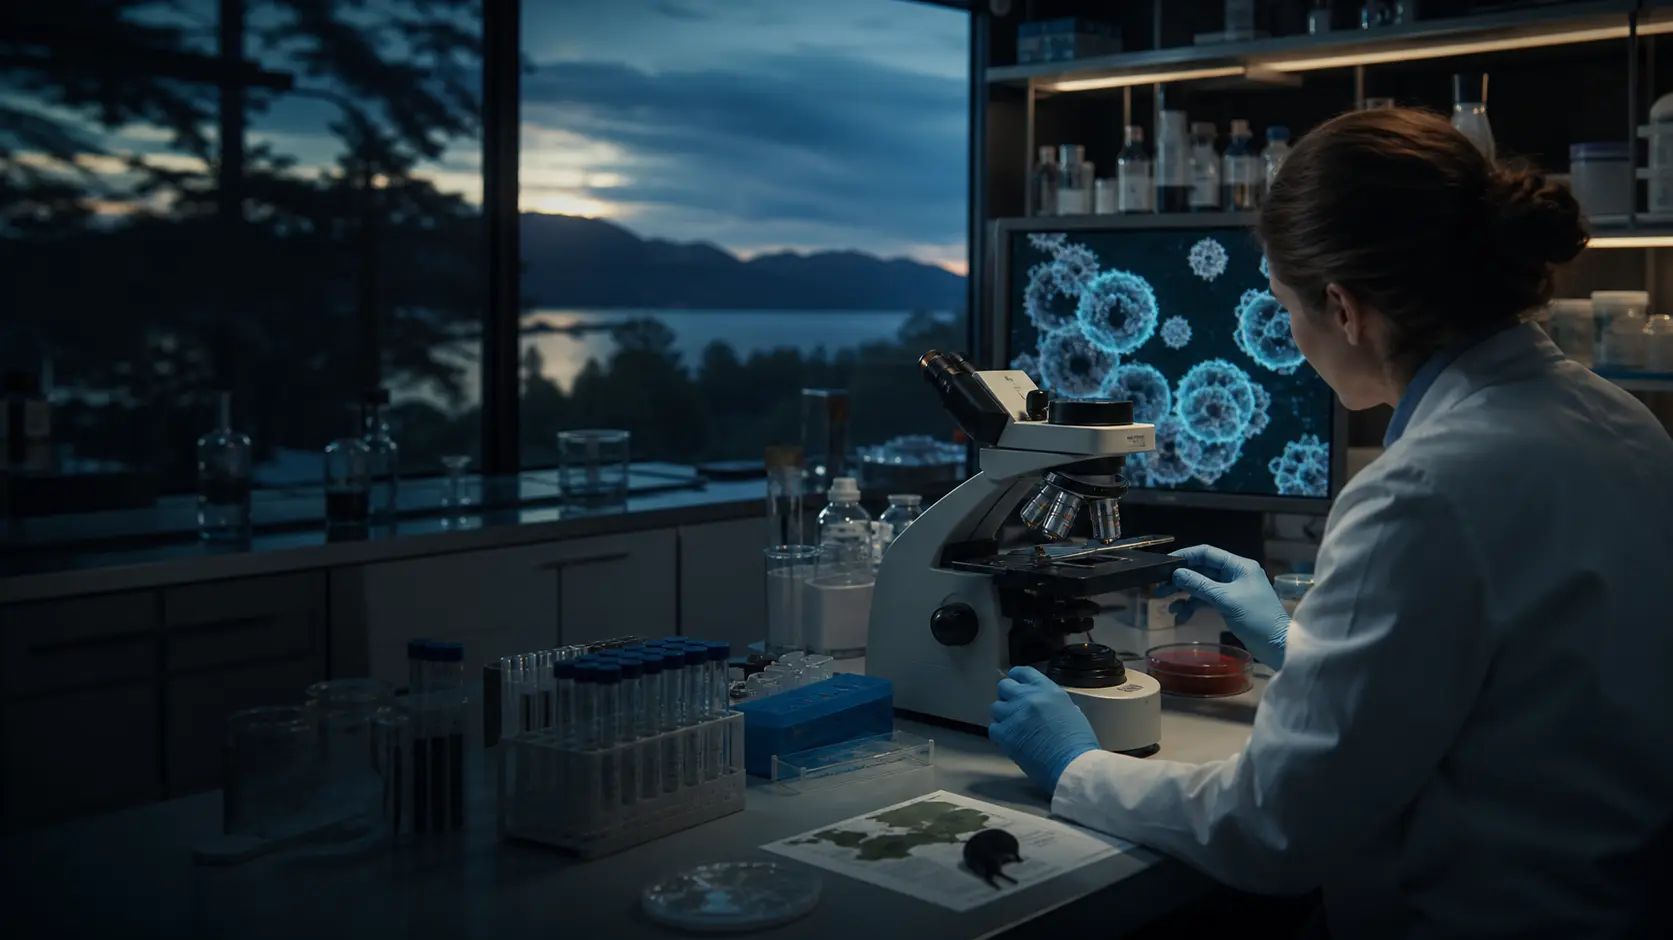
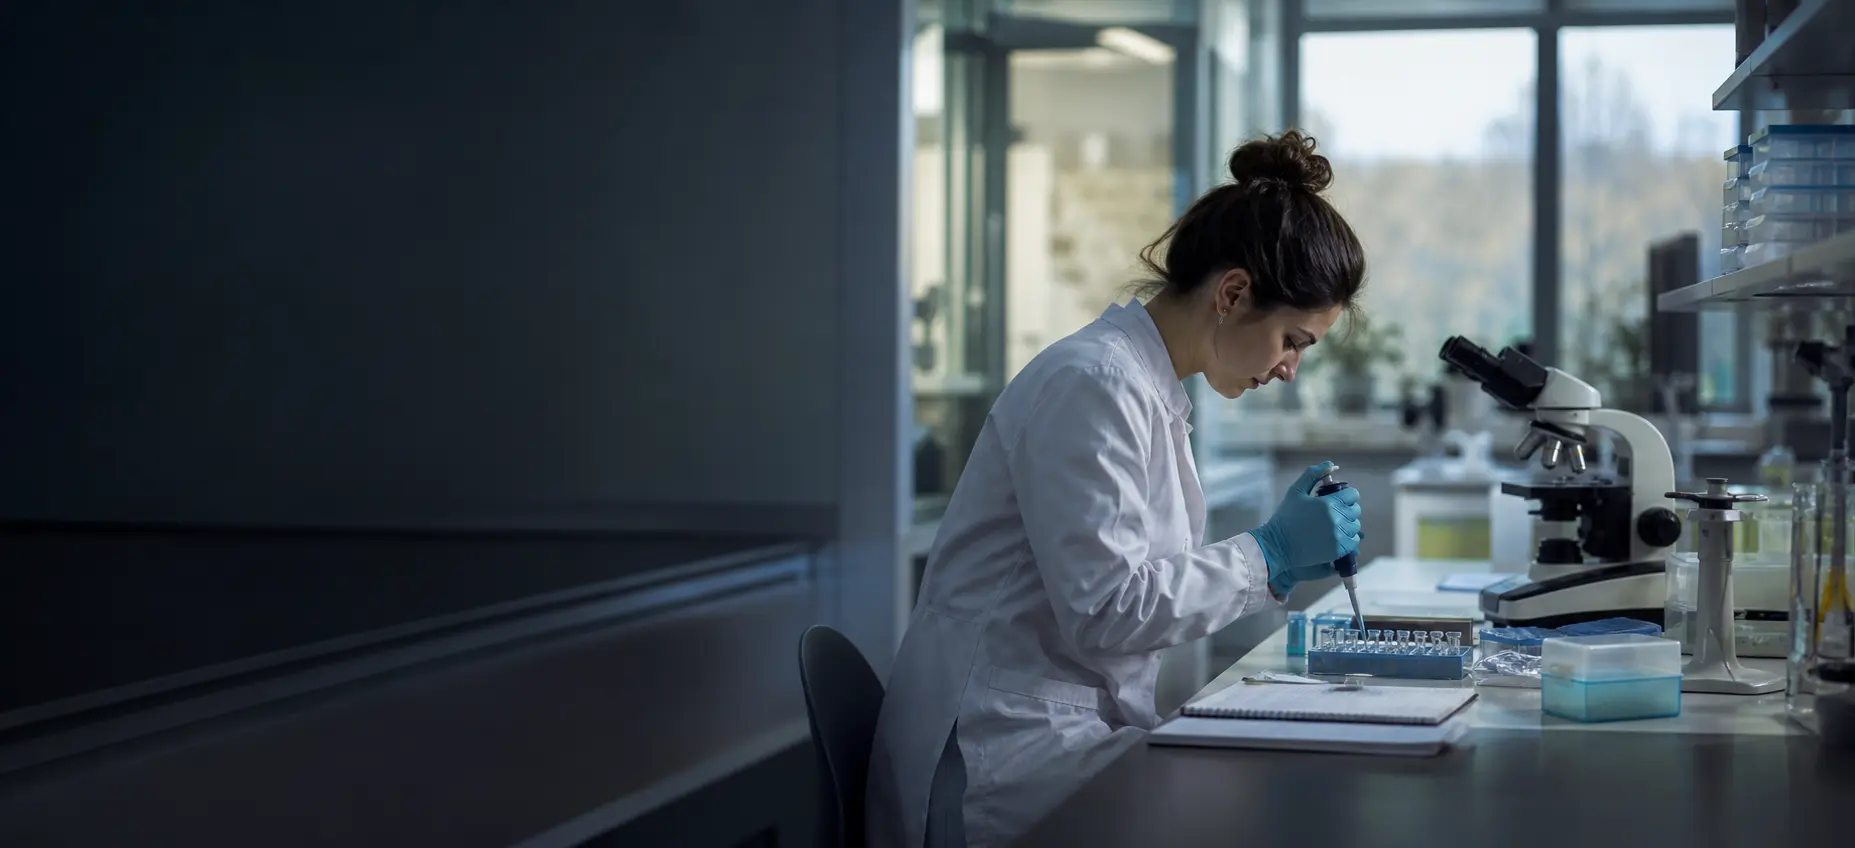
Make homepage hero more sober

diff --git a/index.html b/index.html
@@ -37,7 +37,7 @@
 
       <section class="hero" aria-labelledby="hero-title">
         <picture class="hero-media">
-          <img src="assets/images/ui/home-science-hero.webp" alt="Scientist examining microscopy data in a virology laboratory" fetchpriority="high">
+          <img src="assets/images/ui/home-science-hero.webp?v=sober-20260515" alt="Scientist examining microscopy data in a virology laboratory" fetchpriority="high">
         </picture>
         <div class="hero-overlay"></div>
         <div class="hero-content reveal is-visible">

diff --git a/scripts/build_site.py b/scripts/build_site.py
@@ -242,7 +242,7 @@ def doc(out_path: str, active: str, title: str, description: str, body: str) -> 
 
 def home_page(
     prefix: str,
-    hero_image: str = "ui/home-science-hero.webp",
+    hero_image: str = "ui/home-science-hero.webp?v=sober-20260515",
     hero_alt: str = "Scientist examining microscopy data in a virology laboratory",
 ) -> str:
     return f"""